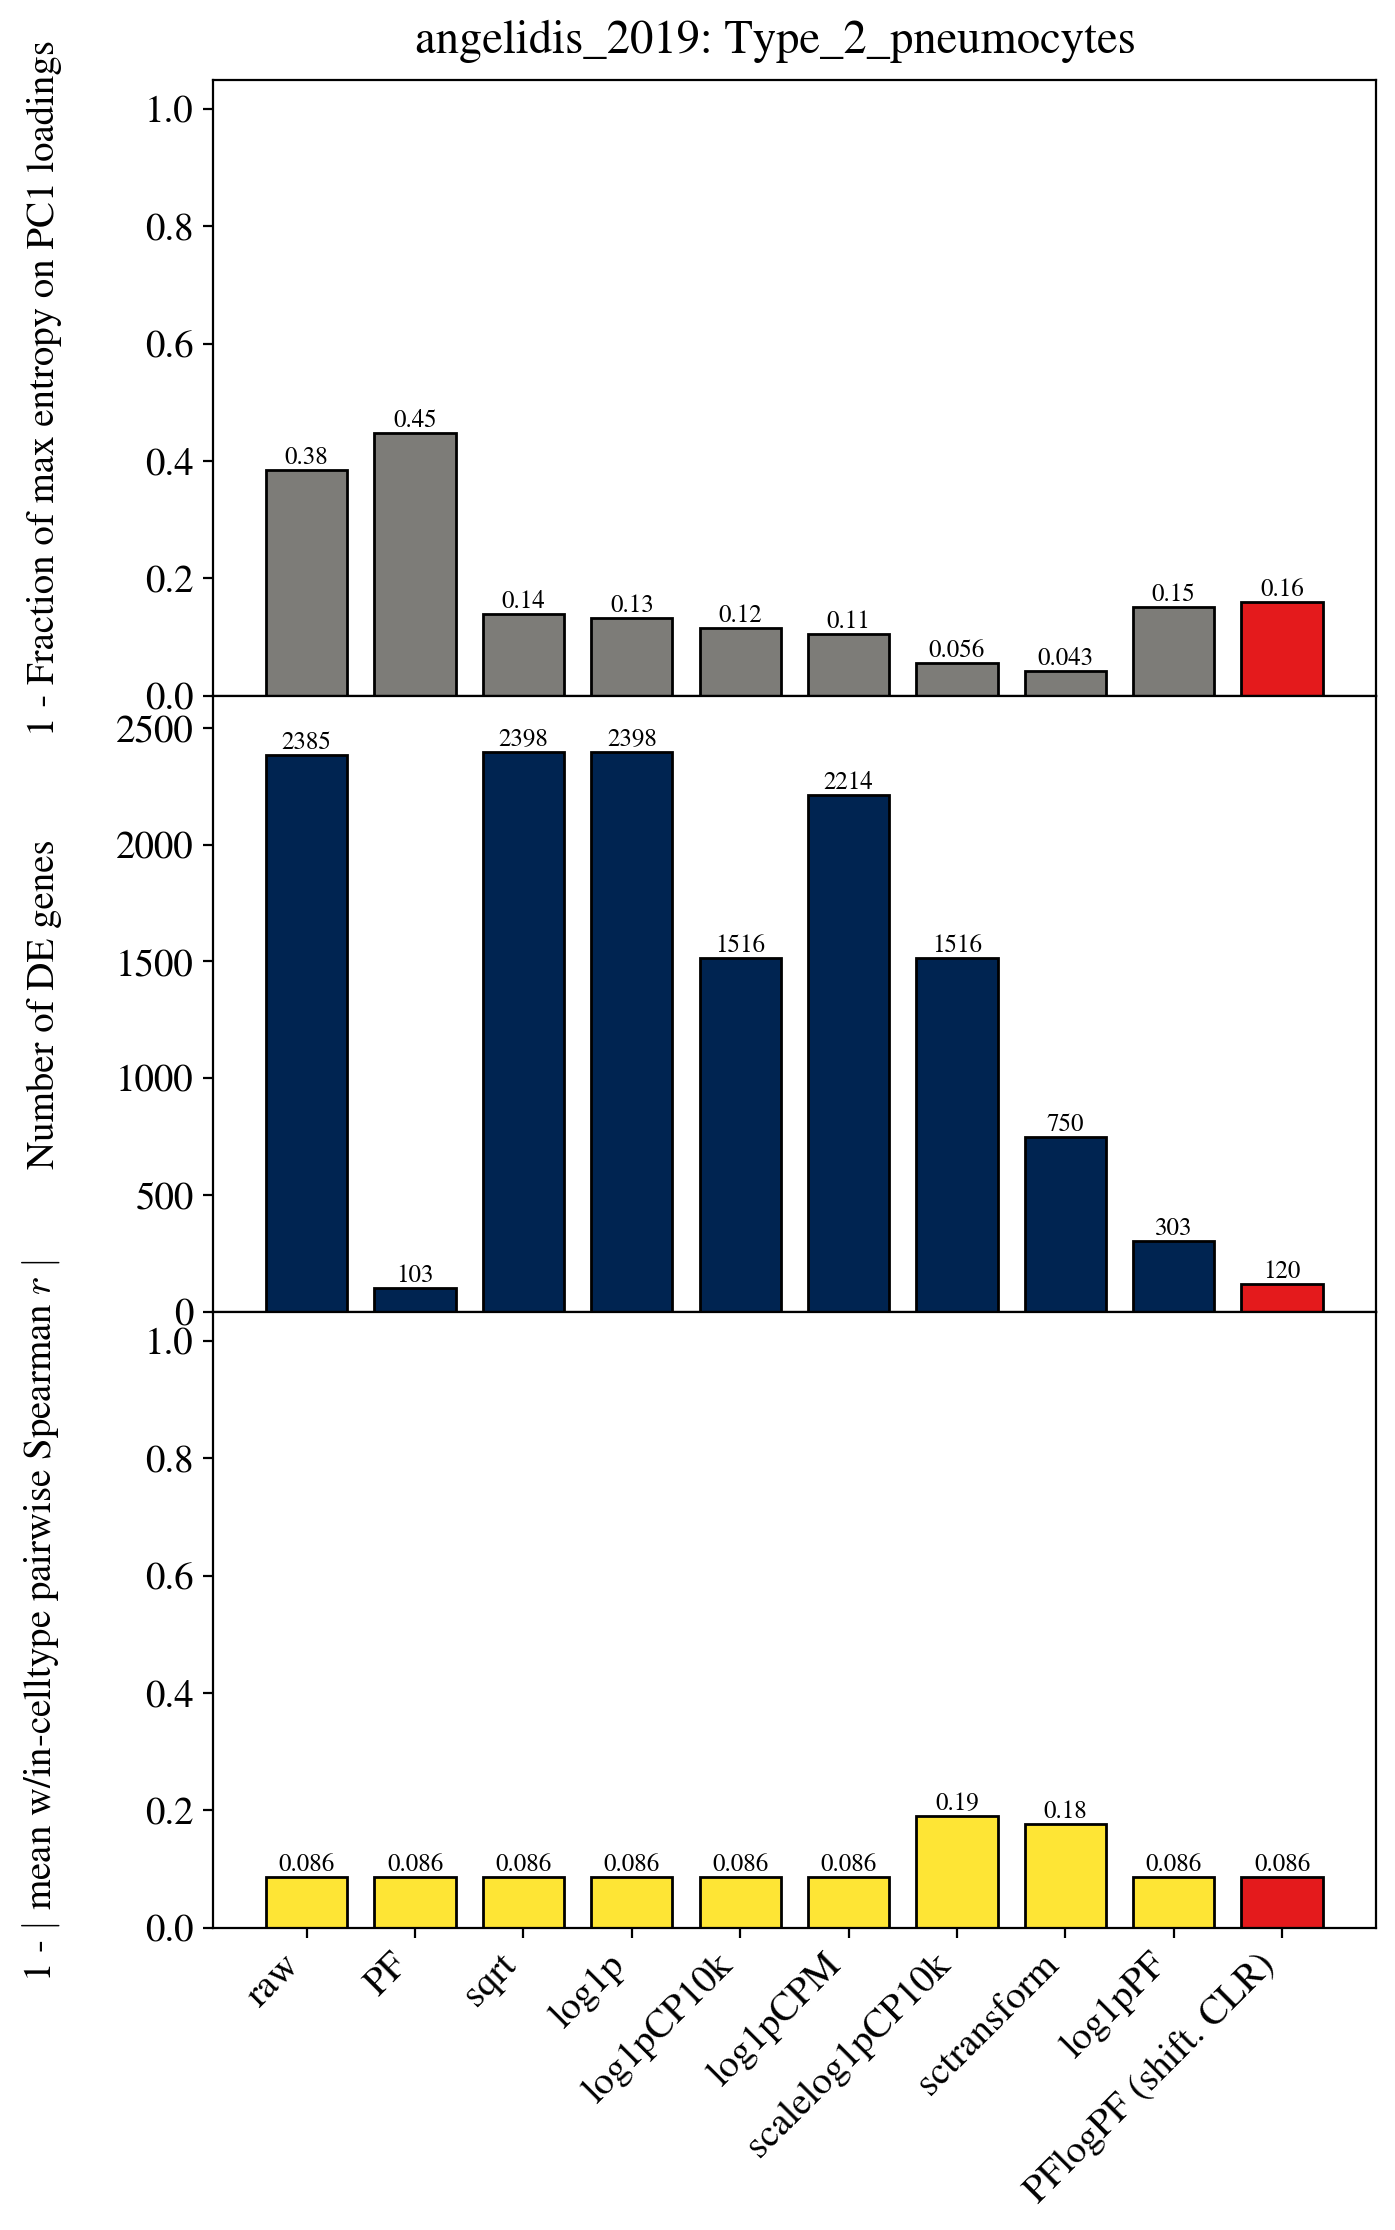
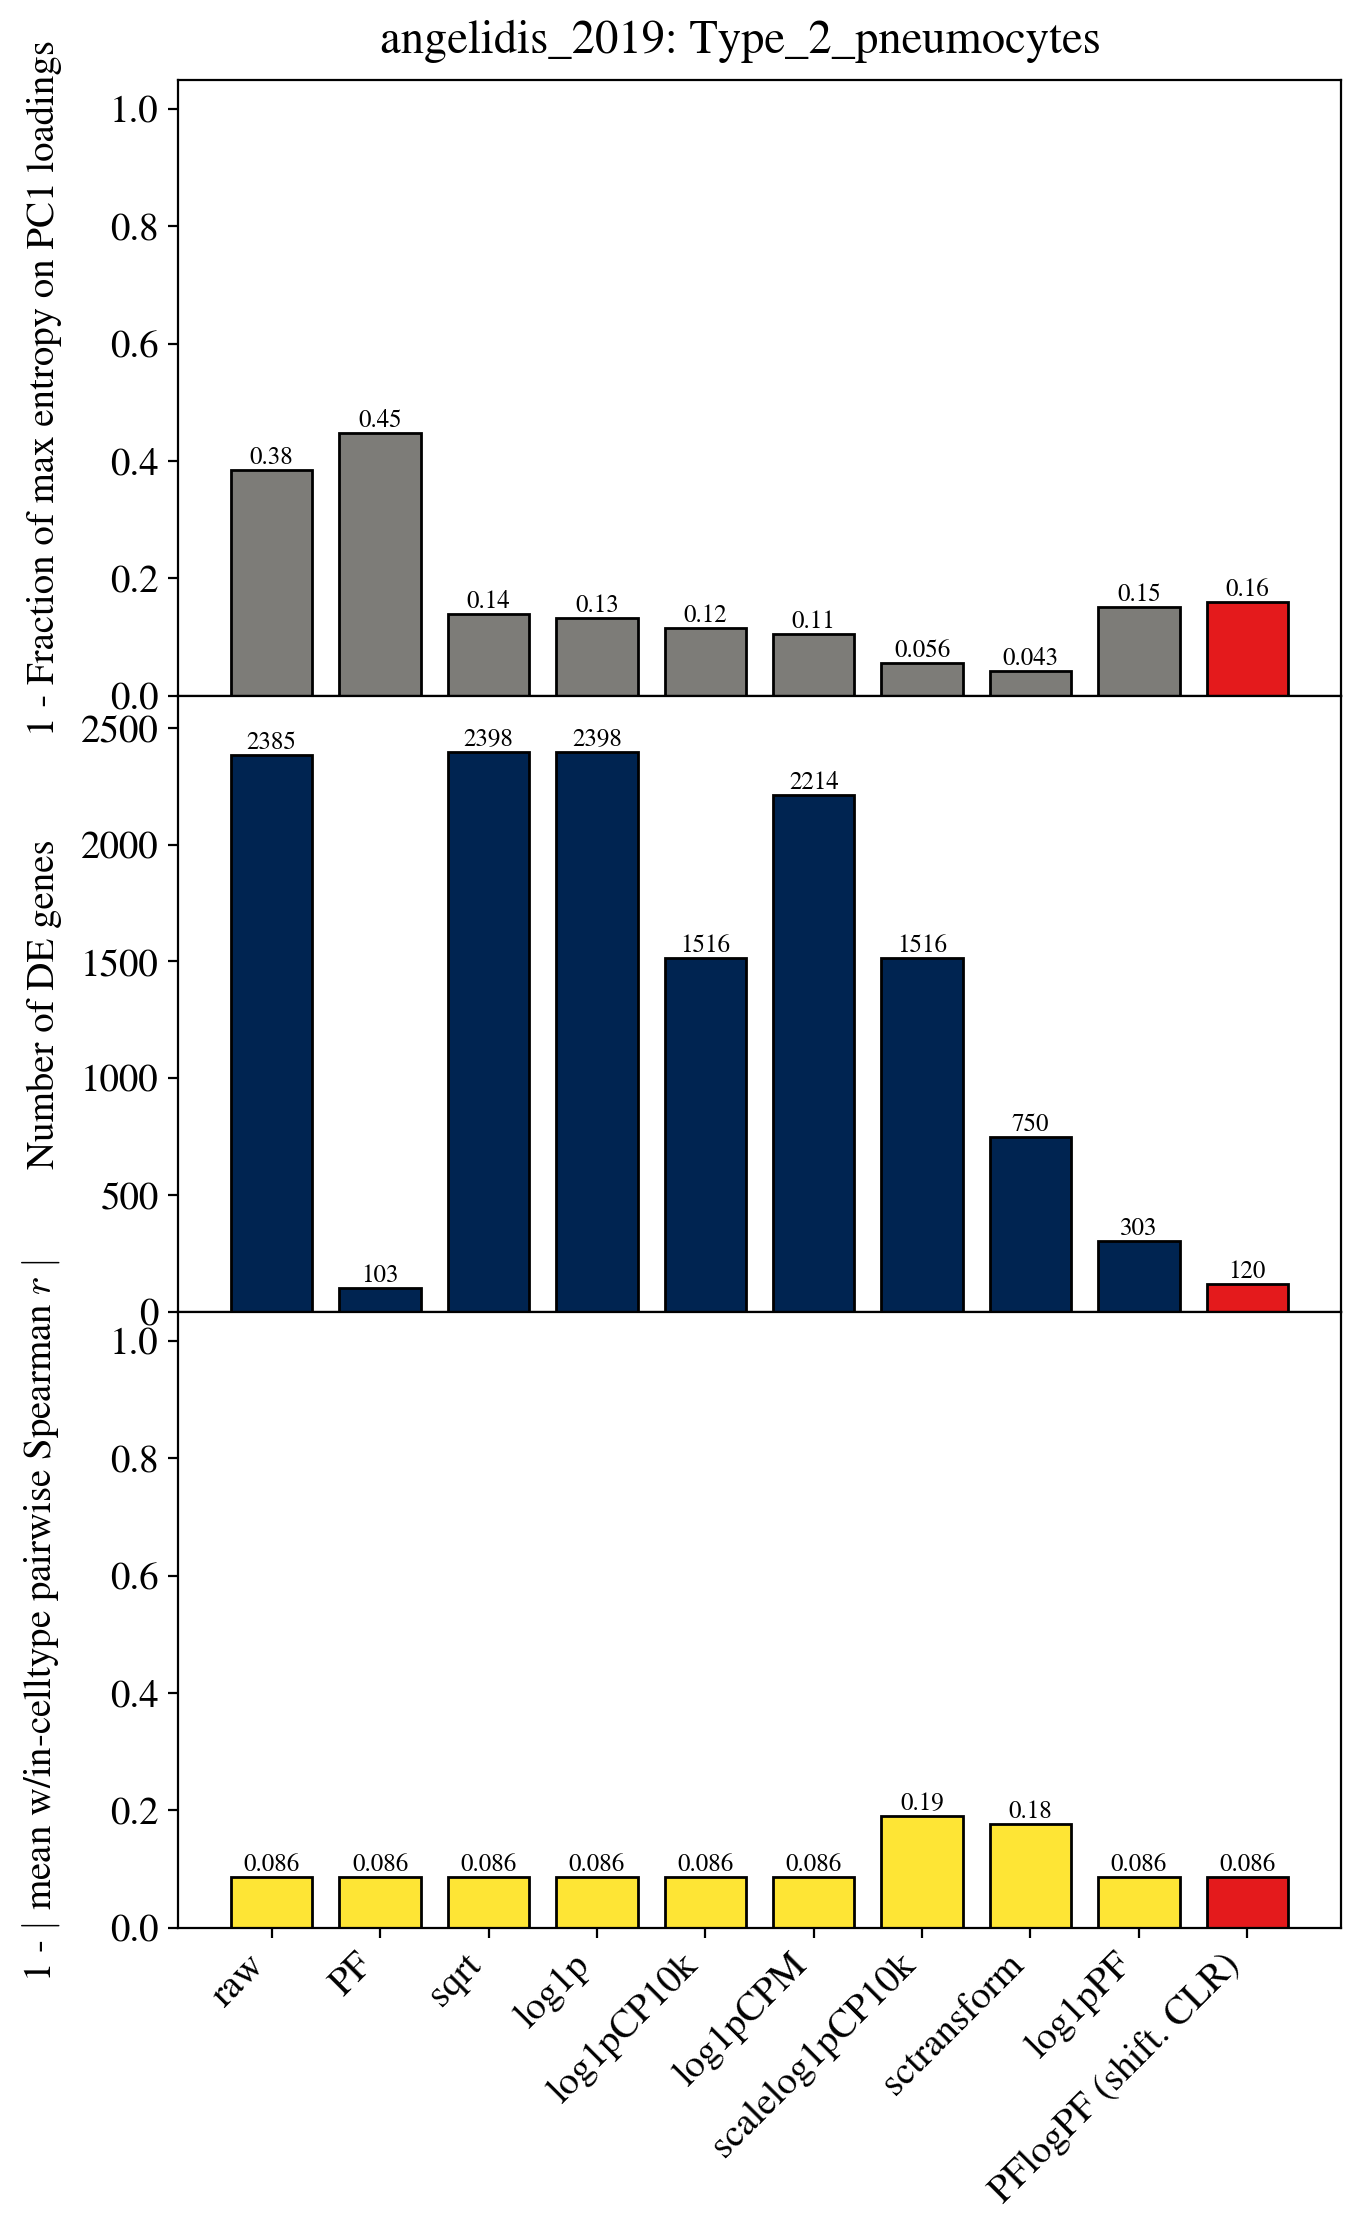
celltype_bar + summary: reduce ylabel offset from -0.13 to -0.10
Slightly less aggressive nudge — labels still clear the tick values but
sit closer to the panel.

diff --git a/scripts/plot_celltype_bar.py b/scripts/plot_celltype_bar.py
@@ -74,7 +74,7 @@ def main(metrics_json, out_prefix):
         ax.bar(x, y, width=0.75, facecolor=face, edgecolor="k")
         ax.set_ylabel(ylabel, labelpad=12)
         # push the ylabel further left of the tick labels
-        ax.yaxis.set_label_coords(-0.13, 0.5)
+        ax.yaxis.set_label_coords(-0.10, 0.5)
         ax.set_xticks(x)
         if ax is axs[-1]:
             ax.set_xticklabels(methods_present, rotation=45, ha="right")

diff --git a/scripts/plot_summary.py b/scripts/plot_summary.py
@@ -146,7 +146,7 @@ def main(data_root, out_prefix, reference_ds="angelidis_2019"):
             )
 
         ax.set_ylabel(ylabel, labelpad=12)
-        ax.yaxis.set_label_coords(-0.13, 0.5)
+        ax.yaxis.set_label_coords(-0.10, 0.5)
         if met == "cov_gene":
             ax.set(yscale="symlog", ylim=(-1, ax.get_ylim()[1] if ax.get_ylim()[1] > 1 else 250))
         elif met == "r2_depth":